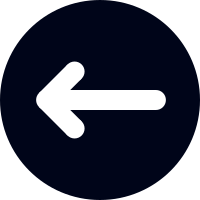
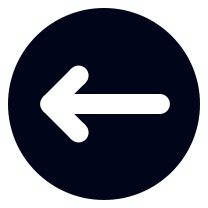
Couple more tiny lil changes

diff --git a/js/script.js b/js/script.js
@@ -29,8 +29,9 @@ $(document).ready(function() {
     // Attach click handlers to the topic selector buttons
     $(".clickable").click(handleTopicClick);
 
-    // Attach click handlers to the navigation arrows
+    // Attach click and hover handlers to the navigation arrows
     $(".arrow-icon").click(handleArrowClick);
+    $(".arrow-icon").hover(handleArrowHoverOn, handleArrowHoverOff);
 
 });
 
@@ -169,5 +170,35 @@ function handleArrowClick() {
 
     // Simulate a click of the (now hidden) topic selector button
     $("#topic-" + topicList[newIndex]).trigger("click");
+
+}
+
+
+/**
+ * Function to switch the arrow icon to the light version when
+ * the mouse hovers over the button
+ */
+function handleArrowHoverOn() {
+
+    if ($(this).attr("id") === "arrow-fwd") {
+        $(this).attr("src", "/img/arrow_fwd_light.png");
+    } else {
+        $(this).attr("src", "/img/arrow_back_light.png");
+    }
+
+}
+
+
+/**
+ * Function to switch the arrow icon back to the regular version when
+ * the mouse hovers off the button
+ */
+function handleArrowHoverOff() {
+
+    if ($(this).attr("id") === "arrow-fwd") {
+        $(this).attr("src", "/img/arrow_fwd.png");
+    } else {
+        $(this).attr("src", "/img/arrow_back.png");
+    }
 
 }

diff --git a/css/style.css b/css/style.css
@@ -425,7 +425,7 @@ div.mce_inline_error {
     /* ---  INTRO section  ---------------- */
 
     #main-background-img {
-        height: 110vh;
+        height: 103vh;
     }
 
     #main-foreground {
@@ -466,7 +466,7 @@ div.mce_inline_error {
         width: 90%;
         min-width: unset;
         max-width:  500px;
-        margin-top: 20px;
+        margin-top: 40px;
         justify-content: space-between;
     }
 
@@ -494,6 +494,7 @@ div.mce_inline_error {
 
     .arrow-icon {
         height: 25px;
+        cursor: pointer;
     }
 
     #arrow-fwd {
